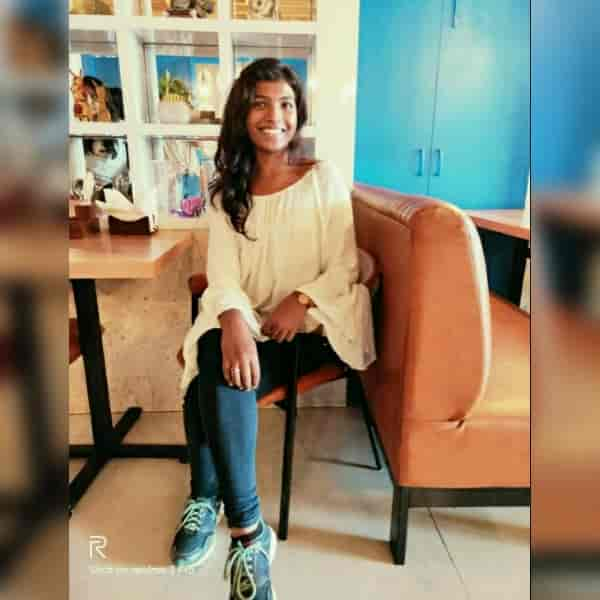
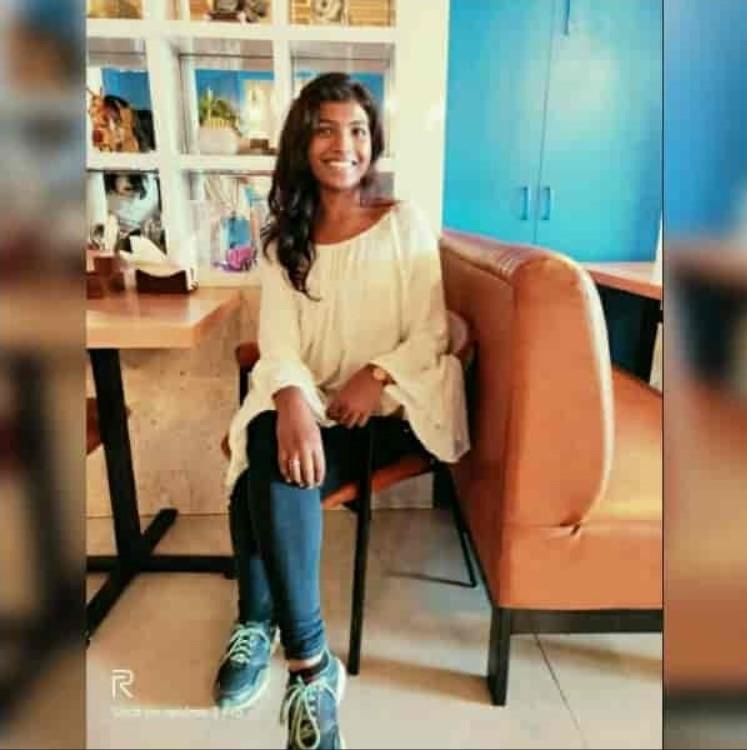
imageformatchanges

diff --git a/client/src/app/main/home/home-team/home-team.component.ts b/client/src/app/main/home/home-team/home-team.component.ts
@@ -91,7 +91,7 @@ export class HomeTeamComponent implements OnInit {
     // },
     {
       id: '9',
-      image: 'assets/compressjpeg/18.jpeg',
+      image: 'assets/compressjpeg/18.jpg',
       name: 'Avneesh Kumar',
       branch: 'Innovation',
       facebooklink: 'https://www.facebook.com/haq.se.single007',
@@ -118,7 +118,7 @@ export class HomeTeamComponent implements OnInit {
     },
     {
       id: '12',
-      image: 'assets/compressjpeg/96.jpeg',
+      image: 'assets/compressjpeg/96.jpg',
       name: 'Satyam Gupta',
       branch: 'Mechanical',
       facebooklink: 'https://www.facebook.com/profile.php?id=100007432145509',
@@ -271,7 +271,7 @@ export class HomeTeamComponent implements OnInit {
     },
     {
       id: '29',
-      image: 'assets/compressjpeg/jitendra.jpeg',
+      image: 'assets/compressjpeg/jitendra.jpg',
       name: 'Jitendra Kumar',
       branch: 'Mechanical',
       facebooklink: 'https://www.facebook.com/profile.php?id=100016228027473',
@@ -299,7 +299,7 @@ export class HomeTeamComponent implements OnInit {
     },
     {
       id: '33',
-      image: 'assets/compressjpeg/divyanshu.jpeg',
+      image: 'assets/compressjpeg/divyanshu.jpg',
       name: 'Divyanshu Verma',
       branch: 'Mechanical',
       facebooklink: 'https://www.facebook.com/Divyanshu.verma.k',
@@ -309,7 +309,7 @@ export class HomeTeamComponent implements OnInit {
 
     {
       id: '35',
-      image: 'assets/compressjpeg/modes.jpeg',
+      image: 'assets/compressjpeg/modes.jpg',
       name: 'Mohd. Modesseer',
       branch: 'Mechanical',
       facebooklink: 'https://www.facebook.com/mohd.modesseer',
@@ -318,7 +318,7 @@ export class HomeTeamComponent implements OnInit {
     },
     {
       id: '36',
-      image: 'assets/compressjpeg/mahima.jpeg',
+      image: 'assets/compressjpeg/mahima.jpg',
       name: 'Mahima',
       branch: 'Mechanical',
       facebooklink: '',

diff --git a/client/src/app/main/home/home-features/home-features.component.html b/client/src/app/main/home/home-features/home-features.component.html
@@ -8,9 +8,12 @@
                             <div class="single_feature_part zoom">
                                 <a routerLink="/efficar"><img src="assets/icon/icon2.png" alt="">
                                     <h4>E-BIKE</h4>
-                                    <p> A fuel-efficient car conserves fuel by means of its construction and
-                                        forward-thinking technologies, including a variety of advanced powertrain
-                                        designs.
+                                    <p> Imagine To Innovate Asia E-bike Challenge is
+                                        an eco-friendly venture based upon Engineering design and manufacturing
+                                        of electric bike completely by the students. The main aim of the event is
+                                        to generate the interest of the student in the field of eco-bikes, and to
+                                        bring a new revolution in the field of biking which can be commercialized
+                                        as a usable product for the future generation.
                                     </p>
                                 </a>
                             </div>

diff --git a/client/src/app/blogs/blogs.component.html b/client/src/app/blogs/blogs.component.html
@@ -18,7 +18,7 @@
             <div class="text-center col-12 col-sm-12 col-md-12 col-lg-12 my-4">
                 <h3 style="color: #162f46">SAE Alumni</h3>
             </div>
-            <div class="col-sm-12 col-md-12 col-lg-12">
+            <div class="col-sm-12 offset-1 col-md-12 col-lg-12">
 
                 <div class="first">
                     <div class="alumini_pics_container  zoom">
@@ -50,7 +50,7 @@
                 </div>
 
                 <div class="alumini_pics_container  zoom">
-                    <img src="/assets/compressjpeg/deepti.jpeg" class="alumini_pics lazy">
+                    <img src="/assets/compressjpeg/deepti.jpg" class="alumini_pics lazy">
                 </div>
 
                 <div class="alumini_pics_container  zoom">
@@ -79,9 +79,6 @@
                 <div class="alumini_pics_container  zoom">
                     <img src="/assets/compressjpeg/f.jpg" class="alumini_pics lazy">
                 </div>
-
-
-
                 <div class="alumini_pics_container  zoom">
                     <img src="/assets/compressjpeg/h.jpg" class="alumini_pics lazy">
                 </div>

diff --git a/client/src/app/main/innovacion/innovacion.component.ts b/client/src/app/main/innovacion/innovacion.component.ts
@@ -26,7 +26,7 @@ export class InnovacionComponent implements OnInit {
     },
     {
       id: '3',
-      images: '/assets/carousel/3.jpeg'
+      images: '/assets/carousel/3.jpg'
 
     },
 
@@ -34,27 +34,27 @@ export class InnovacionComponent implements OnInit {
   photos: Photos[] = [
     {
       id: '0',
-      images: '/assets/carousel/5.jpeg'
+      images: '/assets/carousel/5.jpg'
     },
     {
       id: '1',
-      images: '/assets/carousel/6.jpeg'
+      images: '/assets/carousel/6.jpg'
     },
     {
       id: '2',
-      images: '/assets/carousel/7.jpeg'
+      images: '/assets/carousel/7.jpg'
     },
     {
       id: '3',
-      images: '/assets/carousel/8.jpeg'
+      images: '/assets/carousel/8.jpg'
     },
     {
       id: '4',
-      images: '/assets/carousel/9.jpeg'
+      images: '/assets/carousel/9.jpg'
     },
     {
       id: '5',
-      images: '/assets/carousel/10.jpeg'
+      images: '/assets/carousel/10.jpg'
     }
   ];
   videos: Videos[] = [

diff --git a/client/src/app/main/aacar/aacar.component.ts b/client/src/app/main/aacar/aacar.component.ts
@@ -33,27 +33,27 @@ export class AacarComponent implements OnInit {
   photos: Photos[] = [
     {
       id: '0',
-      images: '/assets/aacar/4.jpeg'
+      images: '/assets/aacar/4.jpg'
     },
     {
       id: '1',
-      images: '/assets/aacar/5.jpeg'
+      images: '/assets/aacar/5.jpg'
     },
     {
       id: '2',
-      images: '/assets/aacar/6.jpeg'
+      images: '/assets/aacar/6.jpg'
     },
     {
       id: '3',
-      images: '/assets/aacar/7.jpeg'
+      images: '/assets/aacar/7.jpg'
     },
     {
       id: '4',
-      images: '/assets/aacar/8.jpeg'
+      images: '/assets/aacar/8.jpg'
     },
     {
       id: '5',
-      images: '/assets/aacar/9.jpeg'
+      images: '/assets/aacar/9.jpg'
     }
   ];
 
@@ -72,7 +72,7 @@ export class AacarComponent implements OnInit {
     // const num = Math.floor(Math.random() * 1000);
     return {
       url: `/assets/aacar/${num}.jpg`,
-      id: `${num}.jpeg`
+      id: `${num}.jpg`
     };
   });
 

diff --git a/client/src/app/main/efficycle/efficycle.component.ts b/client/src/app/main/efficycle/efficycle.component.ts
@@ -9,32 +9,32 @@ export class EfficycleComponent implements OnInit {
   efficycles: Efficycle[] = [
     {
       id: '0',
-      images: '/assets/images/14.jpeg'
+      images: '/assets/images/14.jpg'
 
     },
     {
       id: '1',
-      images: '/assets/images/15.jpeg'
+      images: '/assets/images/15.jpg'
 
     },
     {
       id: '2',
-      images: '/assets/images/19.jpeg'
+      images: '/assets/images/19.jpg'
 
     },
     {
       id: '3',
-      images: '/assets/images/17.jpeg'
+      images: '/assets/images/17.jpg'
 
     },
     {
       id: '4',
-      images: '/assets/images/18.jpeg'
+      images: '/assets/images/18.jpg'
 
     },
     {
       id: '5',
-      images: '/assets/images/19.jpeg'
+      images: '/assets/images/19.jpg'
 
     }
   ]

diff --git a/client/src/app/main/efficar/efficar.component.ts b/client/src/app/main/efficar/efficar.component.ts
@@ -29,7 +29,7 @@ export class EfficarComponent implements OnInit {
     },
     {
       id: '4',
-      images: '/assets/images/13.jpeg'
+      images: '/assets/images/131.jpg'
 
     },
     {

diff --git a/client/src/app/main/efficycle/efficycle.component.scss b/client/src/app/main/efficycle/efficycle.component.scss
@@ -4,7 +4,7 @@
 @import "common";
 
 .breadcrumb_bg {
-	@include background("/assets/images/18.jpeg");
+	@include background("/assets/images/18.jpg");
 }
 
 .breadcrumb {
